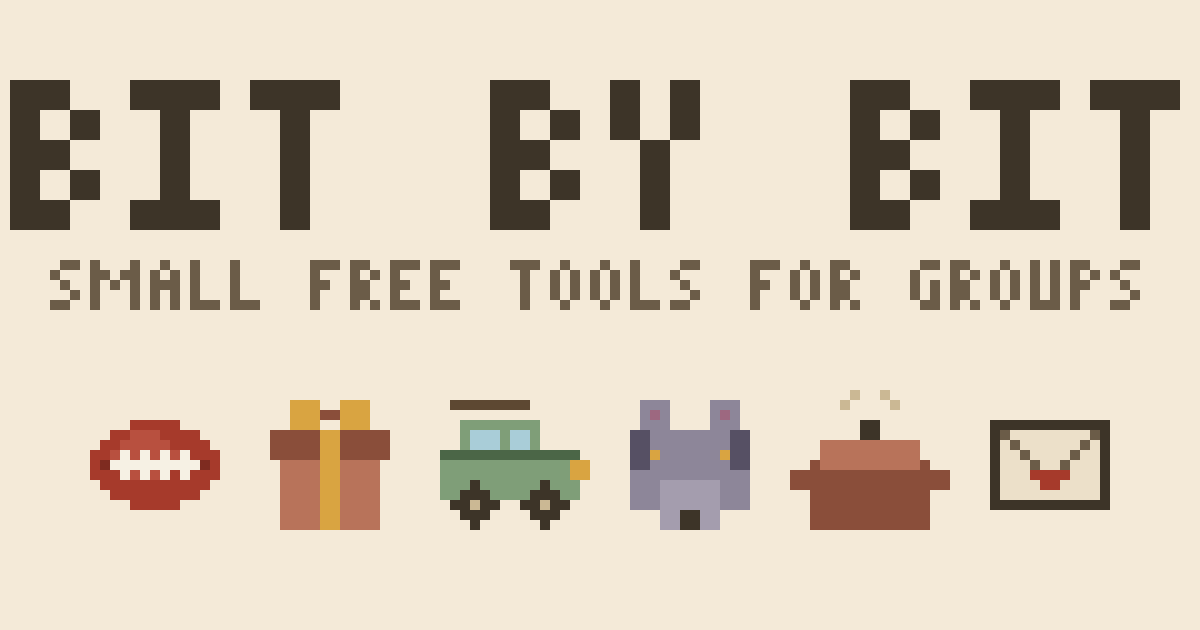
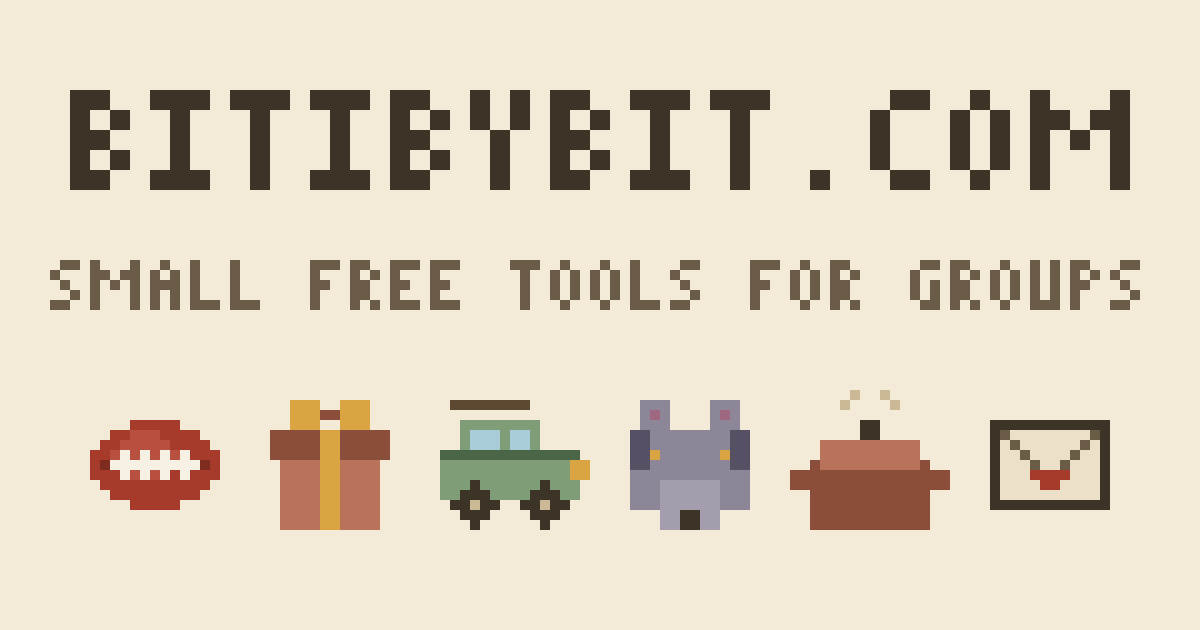
Rename displayed brand to bitibybit.com

Changed region(s): [[0.0, 0.1206, 0.9867, 0.3921]]

diff --git a/public/secret-role-dealer/index.html b/public/secret-role-dealer/index.html
@@ -3,7 +3,7 @@
 <head>
 <meta charset="utf-8">
 <meta name="viewport" content="width=device-width, initial-scale=1">
-<title>Secret Role Dealer — Werewolf, Spyfall &amp; party roles, free | bit by bit</title>
+<title>Secret Role Dealer — Werewolf, Spyfall &amp; party roles, free | bitibybit.com</title>
 <meta name="description" content="A free werewolf role generator, Spyfall dealer and secret role assigner for any party game. Type the roles, share one link — each player privately draws one. No app, no signup.">
 <link rel="canonical" href="https://bitibybit.com/secret-role-dealer/">
 <meta property="og:title" content="Secret Role Dealer">
@@ -19,9 +19,9 @@
 <div class="scanlines" aria-hidden="true"></div>
 
 <header class="site-head wrap">
-  <a class="wordmark" href="/" aria-label="bit by bit — home">
+  <a class="wordmark" href="/" aria-label="bitibybit.com — home">
     <span class="wordmark-blocks" aria-hidden="true"><i></i><i></i><i></i></span>
-    bit&nbsp;by&nbsp;bit
+    bitibybit.com
   </a>
   <nav class="site-nav">
     <a href="/#tools">more tools</a>
@@ -133,7 +133,7 @@ Villager"></textarea>
   </section>
 
   <footer class="site-foot">
-    <p class="fine">Part of <a class="quiet-link" href="/">bit by bit</a> —
+    <p class="fine">Part of <a class="quiet-link" href="/">bitibybit.com</a> —
     small free tools for groups. No tracking, no ads.</p>
   </footer>
 

diff --git a/public/kris-kringle/index.html b/public/kris-kringle/index.html
@@ -3,7 +3,7 @@
 <head>
 <meta charset="utf-8">
 <meta name="viewport" content="width=device-width, initial-scale=1">
-<title>Kris Kringle Generator — draw names online, no emails | bit by bit</title>
+<title>Kris Kringle Generator — draw names online, no emails | bitibybit.com</title>
 <meta name="description" content="Draw Kris Kringle (Secret Santa) names online without collecting a single email address. Share one link, everyone claims their name and sees only their person. Free, no signup, wishlists included.">
 <link rel="canonical" href="https://bitibybit.com/kris-kringle/">
 <meta property="og:title" content="Kris Kringle Generator">
@@ -19,9 +19,9 @@
 <div class="scanlines" aria-hidden="true"></div>
 
 <header class="site-head wrap">
-  <a class="wordmark" href="/" aria-label="bit by bit — home">
+  <a class="wordmark" href="/" aria-label="bitibybit.com — home">
     <span class="wordmark-blocks" aria-hidden="true"><i></i><i></i><i></i></span>
-    bit&nbsp;by&nbsp;bit
+    bitibybit.com
   </a>
   <nav class="site-nav">
     <a href="/#tools">more tools</a>
@@ -152,7 +152,7 @@ Mia"></textarea>
   </section>
 
   <footer class="site-foot">
-    <p class="fine">Part of <a class="quiet-link" href="/">bit by bit</a> —
+    <p class="fine">Part of <a class="quiet-link" href="/">bitibybit.com</a> —
     small free tools for groups. No tracking, no ads.</p>
   </footer>
 

diff --git a/public/bring-a-plate/index.html b/public/bring-a-plate/index.html
@@ -3,7 +3,7 @@
 <head>
 <meta charset="utf-8">
 <meta name="viewport" content="width=device-width, initial-scale=1">
-<title>Bring a Plate — potluck signup board, free | bit by bit</title>
+<title>Bring a Plate — potluck signup board, free | bitibybit.com</title>
 <meta name="description" content="The free potluck signup sheet. Set categories like mains, salads and desserts, share one link, and everyone claims a spot with what they're bringing. No accounts, no six-pavlova surprises.">
 <link rel="canonical" href="https://bitibybit.com/bring-a-plate/">
 <meta property="og:title" content="Bring a Plate — the potluck board">
@@ -19,9 +19,9 @@
 <div class="scanlines" aria-hidden="true"></div>
 
 <header class="site-head wrap">
-  <a class="wordmark" href="/" aria-label="bit by bit — home">
+  <a class="wordmark" href="/" aria-label="bitibybit.com — home">
     <span class="wordmark-blocks" aria-hidden="true"><i></i><i></i><i></i></span>
-    bit&nbsp;by&nbsp;bit
+    bitibybit.com
   </a>
   <nav class="site-nav">
     <a href="/#tools">more tools</a>
@@ -138,7 +138,7 @@ Wildcards x3</textarea>
   </section>
 
   <footer class="site-foot">
-    <p class="fine">Part of <a class="quiet-link" href="/">bit by bit</a> —
+    <p class="fine">Part of <a class="quiet-link" href="/">bitibybit.com</a> —
     small free tools for groups. No tracking, no ads.</p>
   </footer>
 

diff --git a/public/melbourne-cup-sweep/index.html b/public/melbourne-cup-sweep/index.html
@@ -3,7 +3,7 @@
 <head>
 <meta charset="utf-8">
 <meta name="viewport" content="width=device-width, initial-scale=1">
-<title>Melbourne Cup Sweep Generator — free, no signup | bit by bit</title>
+<title>Melbourne Cup Sweep Generator — free, no signup | bitibybit.com</title>
 <meta name="description" content="Run the office Melbourne Cup sweep in under a minute. 24 horses, everyone's names, one shareable link. Free, fair, printable, no signup — no scissors required.">
 <link rel="canonical" href="https://bitibybit.com/melbourne-cup-sweep/">
 <meta property="og:title" content="Melbourne Cup Sweep Generator">
@@ -19,9 +19,9 @@
 <div class="scanlines" aria-hidden="true"></div>
 
 <header class="site-head wrap">
-  <a class="wordmark" href="/" aria-label="bit by bit — home">
+  <a class="wordmark" href="/" aria-label="bitibybit.com — home">
     <span class="wordmark-blocks" aria-hidden="true"><i></i><i></i><i></i></span>
-    bit&nbsp;by&nbsp;bit
+    bitibybit.com
   </a>
   <nav class="site-nav">
     <a href="/#tools">more tools</a>
@@ -156,7 +156,7 @@ Mia"></textarea>
   </section>
 
   <footer class="site-foot">
-    <p class="fine">Part of <a class="quiet-link" href="/">bit by bit</a> —
+    <p class="fine">Part of <a class="quiet-link" href="/">bitibybit.com</a> —
     small free tools for groups. No tracking, no ads.</p>
   </footer>
 

diff --git a/public/grand-final-sweep/index.html b/public/grand-final-sweep/index.html
@@ -3,7 +3,7 @@
 <head>
 <meta charset="utf-8">
 <meta name="viewport" content="width=device-width, initial-scale=1">
-<title>Grand Final Sweep Generator — free, no signup | bit by bit</title>
+<title>Grand Final Sweep Generator — free, no signup | bitibybit.com</title>
 <meta name="description" content="Run an AFL or NRL Grand Final margin sweep in under a minute. Paste your names, hit draw, share one link with the office. Free, fair, printable, no signup.">
 <link rel="canonical" href="https://bitibybit.com/grand-final-sweep/">
 <meta property="og:title" content="Grand Final Sweep Generator">
@@ -19,9 +19,9 @@
 <div class="scanlines" aria-hidden="true"></div>
 
 <header class="site-head wrap">
-  <a class="wordmark" href="/" aria-label="bit by bit — home">
+  <a class="wordmark" href="/" aria-label="bitibybit.com — home">
     <span class="wordmark-blocks" aria-hidden="true"><i></i><i></i><i></i></span>
-    bit&nbsp;by&nbsp;bit
+    bitibybit.com
   </a>
   <nav class="site-nav">
     <a href="/#tools">more tools</a>
@@ -126,7 +126,7 @@ Mia"></textarea>
   </section>
 
   <footer class="site-foot">
-    <p class="fine">Part of <a class="quiet-link" href="/">bit by bit</a> —
+    <p class="fine">Part of <a class="quiet-link" href="/">bitibybit.com</a> —
     small free tools for groups. No tracking, no ads.</p>
   </footer>
 

diff --git a/public/index.html b/public/index.html
@@ -3,10 +3,10 @@
 <head>
 <meta charset="utf-8">
 <meta name="viewport" content="width=device-width, initial-scale=1">
-<title>bit by bit — small free tools for groups</title>
+<title>bitibybit.com — small free tools for groups</title>
 <meta name="description" content="Small free tools for getting a group of people to do something. Office sweeps, gift registries, rosters. No accounts, no fees — just a link you share.">
 <link rel="canonical" href="https://bitibybit.com/">
-<meta property="og:title" content="bit by bit">
+<meta property="og:title" content="bitibybit.com">
 <meta property="og:description" content="Small free tools for getting a group of people to do something.">
 <meta property="og:image" content="https://bitibybit.com/art/og-home.png">
 <meta property="og:type" content="website">
@@ -19,9 +19,9 @@
 <div class="scanlines" aria-hidden="true"></div>
 
 <header class="site-head wrap">
-  <a class="wordmark" href="/" aria-label="bit by bit — home">
+  <a class="wordmark" href="/" aria-label="bitibybit.com — home">
     <span class="wordmark-blocks" aria-hidden="true"><i></i><i></i><i></i></span>
-    bit&nbsp;by&nbsp;bit
+    bitibybit.com
   </a>
   <nav class="site-nav">
     <a href="#tools">tools</a>

diff --git a/src/lib.js b/src/lib.js
@@ -126,7 +126,7 @@ export function pageShell({ title, body }) {
 <head>
 <meta charset="utf-8">
 <meta name="viewport" content="width=device-width, initial-scale=1">
-<title>${esc(title)} — bit by bit</title>
+<title>${esc(title)} — bitibybit.com</title>
 <meta name="robots" content="noindex">
 <meta name="theme-color" content="#f4ead8">
 <link rel="icon" href="/favicon.svg">
@@ -135,9 +135,9 @@ export function pageShell({ title, body }) {
 <body>
 <div class="scanlines" aria-hidden="true"></div>
 <header class="site-head wrap">
-  <a class="wordmark" href="/" aria-label="bit by bit — home">
+  <a class="wordmark" href="/" aria-label="bitibybit.com — home">
     <span class="wordmark-blocks" aria-hidden="true"><i></i><i></i><i></i></span>
-    bit&nbsp;by&nbsp;bit
+    bitibybit.com
   </a>
 </header>
 ${body}

diff --git a/public/404.html b/public/404.html
@@ -3,7 +3,7 @@
 <head>
 <meta charset="utf-8">
 <meta name="viewport" content="width=device-width, initial-scale=1">
-<title>Not found — bit by bit</title>
+<title>Not found — bitibybit.com</title>
 <meta name="robots" content="noindex">
 <link rel="icon" href="/favicon.svg">
 <link rel="stylesheet" href="/styles.css">
@@ -11,9 +11,9 @@
 <body>
 <div class="scanlines" aria-hidden="true"></div>
 <header class="site-head wrap">
-  <a class="wordmark" href="/" aria-label="bit by bit — home">
+  <a class="wordmark" href="/" aria-label="bitibybit.com — home">
     <span class="wordmark-blocks" aria-hidden="true"><i></i><i></i><i></i></span>
-    bit&nbsp;by&nbsp;bit
+    bitibybit.com
   </a>
 </header>
 <main class="wrap page">
